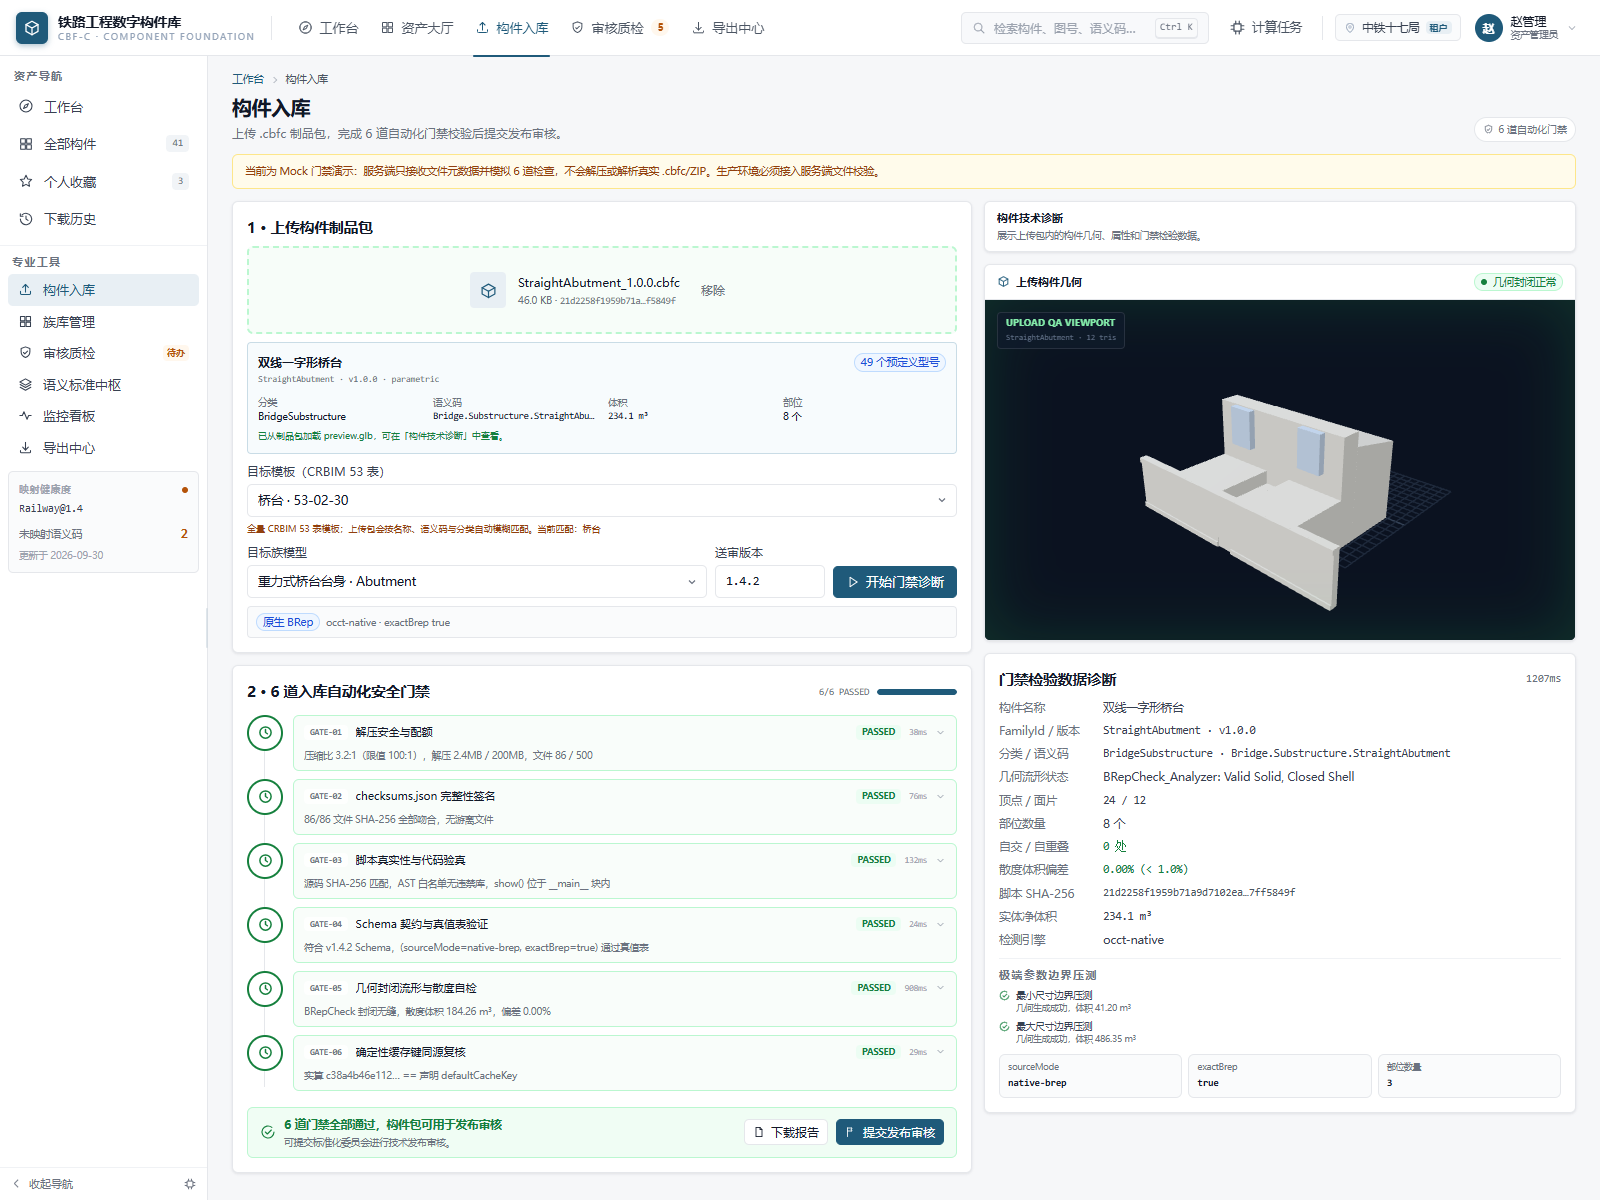
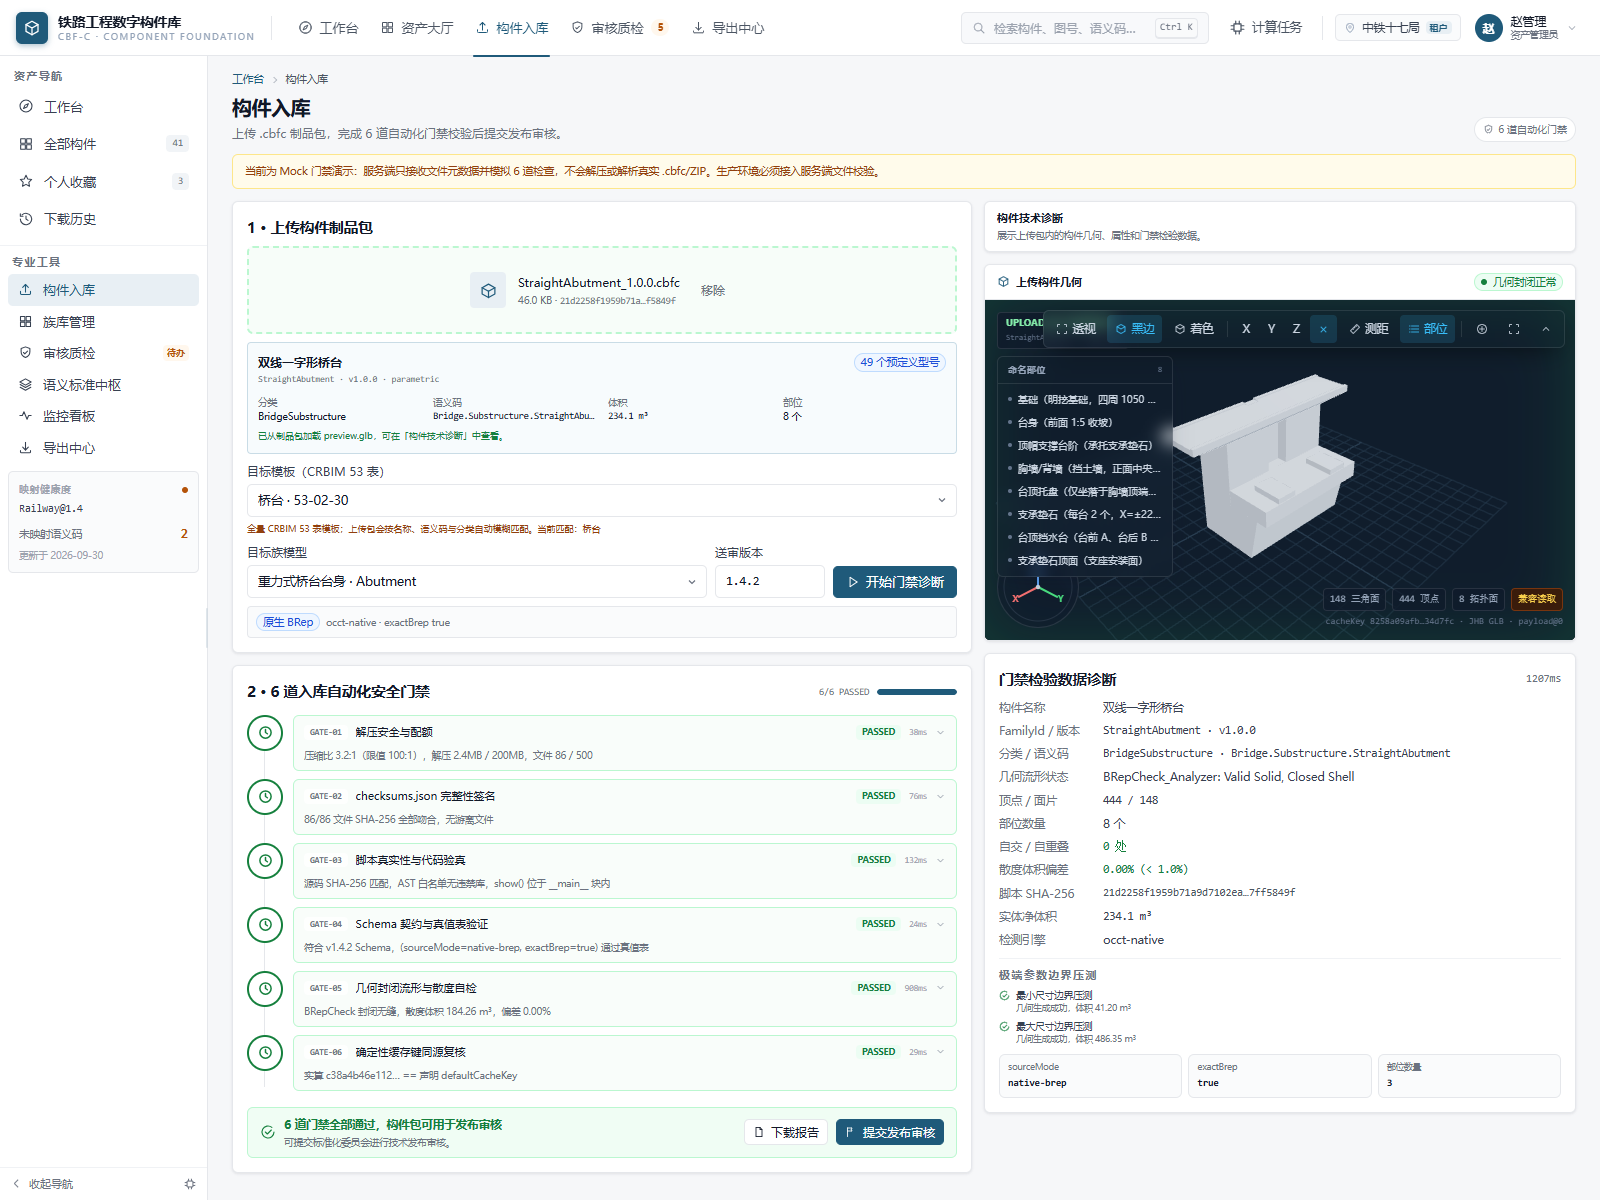
feat(cbfc-web): share 3D viewport and add named part inspector

Changed region(s): [[0.625, 0.2467, 1.0, 0.5242], [0.6875, 0.6475, 0.7188, 0.6783]]

diff --git a/cbfc-web/src/views/IngestionView.vue b/cbfc-web/src/views/IngestionView.vue
@@ -8,6 +8,8 @@ import CadViewport from '@/components/viewer/CadViewport.vue';
 import UploadedModelView from '@/components/ingestion/UploadedModelView.vue';
 import { api } from '@/api/client';
 import type { ComponentSummary, GateResult, TaxonomyNode, TaxonomyScheme, UploadGateResponse } from '@/api/types';
+import type { DecodedJhb } from '@/jhb/decode';
+import { decodeGlbAsJhb } from '@/utils/glbToJhb';
 import { useEvaluation } from '@/composables/useEvaluation';
 import { useSessionStore } from '@/stores/session';
 import { useUiStore } from '@/stores/ui';
@@ -44,9 +46,11 @@ const uploadedMeta = ref<{
   volumeM3: number;
   vertices: number;
   triangles: number;
-  shapes: string[];
+  shapes: { key: string; label: string; node?: string }[];
   presetCount: number;
 } | null>(null);
+const uploadedDecoded = ref<DecodedJhb | null>(null);
+const uploadedPart = ref<string | null>(null);
 const uploadedPreviewUrl = ref('');
 const packageError = ref('');
 const revision = ref('1.4.2');
@@ -79,6 +83,9 @@ const defectOptions = [
 ];
 
 const target = computed(() => components.value.find((c) => c.familyId === familyId.value) ?? null);
+const diagnosticDecoded = computed(() => uploadedDecoded.value ?? decoded.value);
+const diagnosticStatus = computed(() => (uploadedDecoded.value ? 'succeeded' : status.value));
+const diagnosticParts = computed(() => uploadedMeta.value?.shapes ?? []);
 type TemplateOption = { code: string; label: string; depth: number };
 function flattenTemplateNodes(nodes: TaxonomyNode[], depth = 0, output: TemplateOption[] = []): TemplateOption[] {
   for (const node of nodes) {
@@ -156,6 +163,8 @@ function matchTemplateFromPackage(meta: NonNullable<typeof uploadedMeta.value>) 
 async function parsePackage(buffer: ArrayBuffer, selected: File) {
   packageError.value = '';
   uploadedMeta.value = null;
+  uploadedDecoded.value = null;
+  uploadedPart.value = null;
   if (uploadedPreviewUrl.value) URL.revokeObjectURL(uploadedPreviewUrl.value);
   uploadedPreviewUrl.value = '';
   try {
@@ -170,6 +179,10 @@ async function parsePackage(buffer: ArrayBuffer, selected: File) {
     const geometry = componentJson.geometry ?? {};
     const parameters = componentJson.parameters ?? {};
     const shapes = componentJson.shapes ?? {};
+    const shapeList = Object.entries(shapes).map(([key, value]) => {
+      const shape = value as { label?: string; node?: string };
+      return { key, label: shape.label ?? key, node: shape.node };
+    });
     const meta = {
       familyId: String(identity.familyId ?? selected.name.replace(/_[\d.]+\.cbfc$/i, '')),
       name: String(identity.name ?? identity.familyId ?? selected.name),
@@ -181,7 +194,7 @@ async function parsePackage(buffer: ArrayBuffer, selected: File) {
       volumeM3: Number(geometry.volumeM3 ?? 0),
       vertices: Number(parameters.vertices ?? 0),
       triangles: Number(parameters.triangles ?? 0),
-      shapes: Object.keys(shapes),
+      shapes: shapeList,
       presetCount: Array.isArray(parameters.presets) ? parameters.presets.length : 0,
     };
     uploadedMeta.value = meta;
@@ -189,6 +202,15 @@ async function parsePackage(buffer: ArrayBuffer, selected: File) {
     const glb = entries['display/preview.glb'] ?? entries['preview.glb'];
     if (glb) {
       uploadedPreviewUrl.value = URL.createObjectURL(new Blob([glb], { type: 'model/gltf-binary' }));
+      try {
+        const glbBuffer = glb.buffer.slice(glb.byteOffset, glb.byteOffset + glb.byteLength);
+        uploadedDecoded.value = await decodeGlbAsJhb(glbBuffer, shapeList, {
+          cacheKey: String(geometry.defaultCacheKey ?? ''),
+          name: meta.name,
+        });
+      } catch {
+        /* GLB 解析失败时退回独立查看器 */
+      }
     }
   } catch (error) {
     packageError.value = error instanceof Error ? `制品包解析失败：${error.message}` : '制品包解析失败';
@@ -321,6 +343,8 @@ function clearFile() {
   revealed.value = 0;
   defects.value = [];
   uploadedMeta.value = null;
+  uploadedDecoded.value = null;
+  uploadedPart.value = null;
   packageError.value = '';
   if (uploadedPreviewUrl.value) URL.revokeObjectURL(uploadedPreviewUrl.value);
   uploadedPreviewUrl.value = '';
@@ -467,6 +491,7 @@ onBeforeUnmount(() => {
               <div><dt class="text-muted">分类</dt><dd class="truncate text-ink">{{ uploadedMeta.category || '—' }}</dd></div>
               <div><dt class="text-muted">语义码</dt><dd class="mono truncate text-ink" :title="uploadedMeta.semanticCode">{{ uploadedMeta.semanticCode || '—' }}</dd></div>
               <div><dt class="text-muted">体积</dt><dd class="mono text-ink">{{ formatVolume(uploadedMeta.volumeM3) }}</dd></div>
+              <div><dt class="text-muted">顶点 / 面片</dt><dd class="mono text-ink">{{ diagnosticDecoded?.header.vertexCount ?? 0 }} / {{ diagnosticDecoded?.header.triangleCount ?? 0 }}</dd></div>
               <div><dt class="text-muted">部位</dt><dd class="text-ink">{{ uploadedMeta.shapes.length }} 个</dd></div>
             </dl>
             <p v-if="uploadedPreviewUrl" class="mt-1.5 text-[9px] text-success">已从制品包加载 preview.glb，可在「构件技术诊断」中查看。</p>
@@ -690,16 +715,19 @@ onBeforeUnmount(() => {
             />
           </div>
           <div class="relative h-[340px]">
-            <UploadedModelView v-if="uploadedPreviewUrl" :url="uploadedPreviewUrl" />
             <CadViewport
-              v-else
-              :decoded="decoded"
-              :status="status"
-              :progress="progress"
-              :error="evalError"
+              v-if="diagnosticDecoded"
+              :decoded="diagnosticDecoded"
+              :status="diagnosticStatus"
+              :progress="uploadedDecoded ? 100 : progress"
+              :error="uploadedDecoded ? '' : evalError"
               :compact="true"
               :shape-labels="{}"
+              :named-parts="diagnosticParts"
+              :selected-part="uploadedPart"
+              @select-part="uploadedPart = $event"
             />
+            <UploadedModelView v-else-if="uploadedPreviewUrl" :url="uploadedPreviewUrl" />
             <div
               class="pointer-events-none absolute inset-0"
               :class="verdict === 'failed' ? 'shadow-[inset_0_0_60px_rgba(185,28,28,0.35)]' : 'shadow-[inset_0_0_60px_rgba(34,197,94,0.18)]'"
@@ -708,7 +736,7 @@ onBeforeUnmount(() => {
               <p class="text-[8.5px] font-semibold uppercase tracking-wider" :class="verdict === 'failed' ? 'text-[#FCA5A5]' : 'text-[#86EFAC]'">
                 {{ verdict === 'failed' ? 'RED ALERT · 非流形定位' : 'UPLOAD QA VIEWPORT' }}
               </p>
-              <p class="mono mt-0.5 text-[8px] text-[#64748B]">{{ uploadedMeta?.familyId ?? target?.familyId }} · {{ uploadedMeta?.triangles || decoded?.header.triangleCount || '—' }} tris</p>
+              <p class="mono mt-0.5 text-[8px] text-[#64748B]">{{ uploadedMeta?.familyId ?? target?.familyId }} · {{ diagnosticDecoded?.header.triangleCount ?? uploadedMeta?.triangles ?? '—' }} tris</p>
             </div>
           </div>
         </div>
@@ -729,8 +757,8 @@ onBeforeUnmount(() => {
             <dd class="text-[#374151]">{{ result?.report.bRepCheck ?? '—' }}</dd>
             <dt class="text-muted">顶点 / 面片</dt>
             <dd class="mono text-[#374151]">
-              {{ formatNumber(uploadedMeta?.vertices || result?.report.mesh.vertices || target?.geometry.vertices || 0) }} /
-              {{ formatNumber(uploadedMeta?.triangles || result?.report.mesh.triangles || target?.geometry.triangles || 0) }}
+              {{ formatNumber(uploadedMeta?.vertices || diagnosticDecoded?.header.vertexCount || result?.report.mesh.vertices || target?.geometry.vertices || 0) }} /
+              {{ formatNumber(uploadedMeta?.triangles || diagnosticDecoded?.header.triangleCount || result?.report.mesh.triangles || target?.geometry.triangles || 0) }}
             </dd>
             <dt class="text-muted">部位数量</dt>
             <dd class="text-[#374151]">{{ uploadedMeta?.shapes.length ?? result?.detected.shapes.length ?? 0 }} 个</dd>

diff --git a/cbfc-web/src/utils/glbToJhb.ts b/cbfc-web/src/utils/glbToJhb.ts
@@ -1,0 +1,146 @@
+import * as THREE from 'three';
+import { GLTFLoader } from 'three/examples/jsm/loaders/GLTFLoader.js';
+import type { DecodedJhb, JhbHeader } from '@/jhb/decode';
+
+export interface NamedPartInput {
+  key: string;
+  label: string;
+  node?: string;
+  instances?: string[];
+}
+
+/**
+ * 将上传包内的 preview.glb 转换为 CadViewport 可消费的 DecodedJhb 形状。
+ * 该对象只用于诊断预览；体积/面积保留 GLB 三角网格统计。
+ */
+export async function decodeGlbAsJhb(
+  buffer: ArrayBuffer,
+  parts: NamedPartInput[],
+  meta: { cacheKey?: string; name?: string },
+): Promise<DecodedJhb> {
+  const loader = new GLTFLoader();
+  const gltf = await new Promise<{ scene: THREE.Group }>((resolve, reject) => {
+    loader.parse(buffer, '', (result) => resolve(result as { scene: THREE.Group }), reject);
+  });
+  const named = parts.length ? parts : [{ key: 'ImportedBody', label: '导入实体' }];
+  const indexByNode = new Map<string, number>();
+  named.forEach((part, index) => {
+    for (const key of [part.key, part.node, ...(part.instances ?? [])].filter(Boolean) as string[]) {
+      indexByNode.set(key.toLowerCase(), index);
+      indexByNode.set(key.split('/').pop()!.toLowerCase(), index);
+    }
+  });
+  const resolveIndex = (object: THREE.Object3D): number => {
+    let current: THREE.Object3D | null = object;
+    while (current) {
+      const found = indexByNode.get(current.name.toLowerCase());
+      if (found !== undefined) return found;
+      current = current.parent;
+    }
+    return 0;
+  };
+
+  const positions: number[] = [];
+  const normals: number[] = [];
+  const indices: number[] = [];
+  const faceIds: number[] = [];
+  const faceToShape: number[] = [];
+  let triangleCount = 0;
+  gltf.scene.updateMatrixWorld(true);
+
+  gltf.scene.traverse((object) => {
+    const mesh = object as THREE.Mesh;
+    if (!mesh.isMesh || !mesh.geometry) return;
+    const shapeIndex = resolveIndex(mesh);
+    const geometry = mesh.geometry.clone();
+    geometry.applyMatrix4(mesh.matrixWorld);
+    if (!geometry.getAttribute('normal')) geometry.computeVertexNormals();
+    const position = geometry.getAttribute('position');
+    const normal = geometry.getAttribute('normal');
+    const index = geometry.getIndex();
+    const baseVertex = positions.length / 3;
+    for (let i = 0; i < position.count; i += 1) {
+      positions.push(position.getX(i), position.getY(i), position.getZ(i));
+      normals.push(normal.getX(i), normal.getY(i), normal.getZ(i));
+    }
+    const triIndices: number[] = [];
+    if (index) {
+      for (let i = 0; i < index.count; i += 1) triIndices.push(baseVertex + index.getX(i));
+    } else {
+      for (let i = 0; i < position.count; i += 1) triIndices.push(baseVertex + i);
+    }
+    for (let i = 0; i + 2 < triIndices.length; i += 3) {
+      faceIds.push(triangleCount);
+      faceToShape.push(shapeIndex);
+      triangleCount += 1;
+    }
+    indices.push(...triIndices);
+    geometry.dispose();
+  });
+
+  const positionArray = new Float32Array(positions);
+  const normalArray = new Float32Array(normals);
+  const indexArray = new Uint32Array(indices);
+  const faceIdArray = faceIds.length > 65535
+    ? new Uint32Array(faceIds)
+    : new Uint16Array(faceIds);
+  const bounds = { min: [Infinity, Infinity, Infinity] as [number, number, number], max: [-Infinity, -Infinity, -Infinity] as [number, number, number] };
+  for (let i = 0; i < positionArray.length; i += 3) {
+    bounds.min[0] = Math.min(bounds.min[0], positionArray[i]);
+    bounds.min[1] = Math.min(bounds.min[1], positionArray[i + 1]);
+    bounds.min[2] = Math.min(bounds.min[2], positionArray[i + 2]);
+    bounds.max[0] = Math.max(bounds.max[0], positionArray[i]);
+    bounds.max[1] = Math.max(bounds.max[1], positionArray[i + 1]);
+    bounds.max[2] = Math.max(bounds.max[2], positionArray[i + 2]);
+  }
+  if (!Number.isFinite(bounds.min[0])) {
+    bounds.min = [0, 0, 0];
+    bounds.max = [1, 1, 1];
+  }
+
+  const buffers = {
+    vertices: { offset: 0, length: positionArray.byteLength, type: 'float32' as const, stride: 3 },
+    indices: { offset: 0, length: indexArray.byteLength, type: 'uint32' as const, stride: 1 },
+    normals: { offset: 0, length: normalArray.byteLength, type: 'float32' as const, stride: 3 },
+    edges: { offset: 0, length: 0, type: 'float32' as const, stride: 3 },
+    edgeOffsets: { offset: 0, length: 0, type: 'uint32' as const, stride: 1 },
+    faceIds: { offset: 0, length: faceIdArray.byteLength, type: faceIds.length > 65535 ? 'uint32' as const : 'uint16' as const, stride: 1 },
+  };
+  const header: JhbHeader = {
+    protocolVersion: 'GLB',
+    status: 'ok',
+    cache_key: meta.cacheKey ?? '',
+    format: 'glb-preview',
+    payloadKind: 'UploadedGlb',
+    shapeKeys: named.map((part) => part.key),
+    vertexCount: positionArray.length / 3,
+    triangleCount,
+    edgeLineVertexCount: 0,
+    edgesCount: 0,
+    facesCount: named.length,
+    faceToShape,
+    edgeToShape: [],
+    buffers,
+    bounds,
+    stats: { triangles: triangleCount, facesCount: named.length, volumeM3: 0 },
+    outputs: Object.fromEntries(named.map((part) => [part.key, { geomType: 'solid', volume: 0 }])),
+    edges: [],
+    cacheHit: false,
+  };
+  return {
+    header,
+    positions: positionArray,
+    indices: indexArray,
+    normals: normalArray,
+    faceIds: faceIdArray,
+    edges: new Float32Array(0),
+    edgeOffsets: new Uint32Array([0]),
+    zeroCopy: false,
+    aligned: true,
+    jsonLen: 0,
+    payloadStart: 0,
+    baseOffset: 0,
+    targetBuffer: new ArrayBuffer(0),
+    sourceBuffer: new ArrayBuffer(0),
+  };
+}

diff --git a/cbfc-web/src/components/viewer/CadViewport.vue b/cbfc-web/src/components/viewer/CadViewport.vue
@@ -18,6 +18,8 @@ const props = withDefaults(
     compareDecoded?: DecodedJhb | null;
     diffChanges?: { shapeKey: string; kind: 'added' | 'removed' | 'modified' }[];
     shapeLabels?: Record<string, string>;
+    namedParts?: { key: string; label: string }[];
+    selectedPart?: string | null;
     waitingText?: string;
   }>(),
   {
@@ -28,6 +30,8 @@ const props = withDefaults(
     highlightShape: null,
     compareDecoded: null,
     diffChanges: () => [],
+    namedParts: () => [],
+    selectedPart: null,
     waitingText: '正在请求权威几何…',
   },
 );
@@ -36,6 +40,7 @@ const emit = defineEmits<{
   pick: [info: PickInfo | null];
   measure: [result: MeasureResult | null];
   reinit: [];
+  selectPart: [key: string];
 }>();
 
 const host = ref<HTMLDivElement | null>(null);
@@ -55,6 +60,7 @@ const axes2d = ref<{ x: [number, number]; y: [number, number]; z: [number, numbe
 const contextLost = ref(false);
 const fullscreen = ref(false);
 const showTools = ref(true);
+const showNamedParts = ref(true);
 const showDetails = ref(false);
 const ready = ref(false);
 
@@ -401,6 +407,15 @@ defineExpose({
         <button class="toolbar-btn" :class="{ 'toolbar-btn-active': measureMode }" title="点对点测距（端点吸附）" @click="toggleMeasure">
           <AppIcon name="measure" :size="12" /><span class="hidden sm:inline">测距</span>
         </button>
+        <button
+          v-if="namedParts.length"
+          class="toolbar-btn"
+          :class="{ 'toolbar-btn-active': showNamedParts }"
+          :title="showNamedParts ? '隐藏命名部位' : '显示命名部位'"
+          @click="showNamedParts = !showNamedParts"
+        >
+          <AppIcon name="list" :size="12" /><span class="hidden sm:inline">部位</span>
+        </button>
         <span class="mx-0.5 h-4 w-px bg-white/10" />
         <button class="toolbar-btn" title="适配视口" @click="fit"><AppIcon name="crosshair" :size="12" /></button>
         <button class="toolbar-btn" :title="fullscreen ? '退出全屏' : '全屏查看'" @click="toggleFullscreen">
@@ -447,6 +462,30 @@ defineExpose({
       <span class="flex items-center gap-1"><span class="h-2 w-2 rounded-sm bg-[#22C55E]" />新增部位</span>
       <span class="flex items-center gap-1"><span class="h-2 w-2 rounded-sm bg-[#F59E0B]" />尺寸变形</span>
       <span class="flex items-center gap-1"><span class="h-2 w-2 rounded-sm bg-[#EF4444]" />删除部位</span>
+    </div>
+
+    <!-- 命名部位列表 -->
+    <div
+      v-if="showNamedParts && namedParts.length"
+      class="absolute left-3 top-14 z-20 max-h-[min(280px,calc(100%-72px))] w-[176px] overflow-hidden rounded-md border border-white/10 bg-[#0F1A2B]/92 shadow-lift backdrop-blur"
+    >
+      <div class="flex items-center justify-between border-b border-white/10 px-2.5 py-1.5">
+        <p class="text-[9px] font-semibold uppercase tracking-wider text-[#94A3B8]">命名部位</p>
+        <span class="mono text-[8px] text-[#64748B]">{{ namedParts.length }}</span>
+      </div>
+      <div class="max-h-[240px] overflow-y-auto p-1 scroll-thin">
+        <button
+          v-for="part in namedParts"
+          :key="part.key"
+          class="flex w-full items-center gap-1.5 rounded px-1.5 py-1 text-left transition-colors"
+          :class="selectedPart === part.key ? 'bg-hl/15 text-white' : 'text-[#CBD5E1] hover:bg-white/10'"
+          :title="part.label"
+          @click="emit('selectPart', part.key)"
+        >
+          <span class="h-1 w-1 shrink-0 rounded-full" :class="selectedPart === part.key ? 'bg-hl' : 'bg-[#64748B]'" />
+          <span class="min-w-0 flex-1 truncate text-[10px]">{{ part.label }}</span>
+        </button>
+      </div>
     </div>
 
     <!-- HUD -->

diff --git a/cbfc-web/src/views/ComponentDetailView.vue b/cbfc-web/src/views/ComponentDetailView.vue
@@ -143,6 +143,9 @@ const shapeLabels = computed<Record<string, string>>(() => {
   for (const entry of shapeEntries.value) map[entry.key] = entry.label;
   return map;
 });
+const namedPartOptions = computed(() =>
+  shapeEntries.value.map((entry) => ({ key: entry.key, label: entry.label })),
+);
 const selectedShape = computed(() => shapeEntries.value.find((s) => s.key === selectedShapeKey.value) ?? null);
 const selectedMapping = computed(() => semantics.value.find((m) => m.shapeKey === selectedShapeKey.value) ?? null);
 const shapeOutput = computed(() => {
@@ -420,8 +423,11 @@ onMounted(async () => {
               :error="evalError"
               :highlight-shape="selectedShape?.index ?? null"
               :shape-labels="shapeLabels"
+              :named-parts="versionCompareActive ? [] : namedPartOptions"
+              :selected-part="selectedShapeKey"
               :hud="canSeeGovernance && !versionCompareActive"
               @pick="(info) => (selectedShapeKey = info?.shapeKey ?? null)"
+              @select-part="selectedShapeKey = $event"
             />
             <div
               v-if="versionCompareActive"
